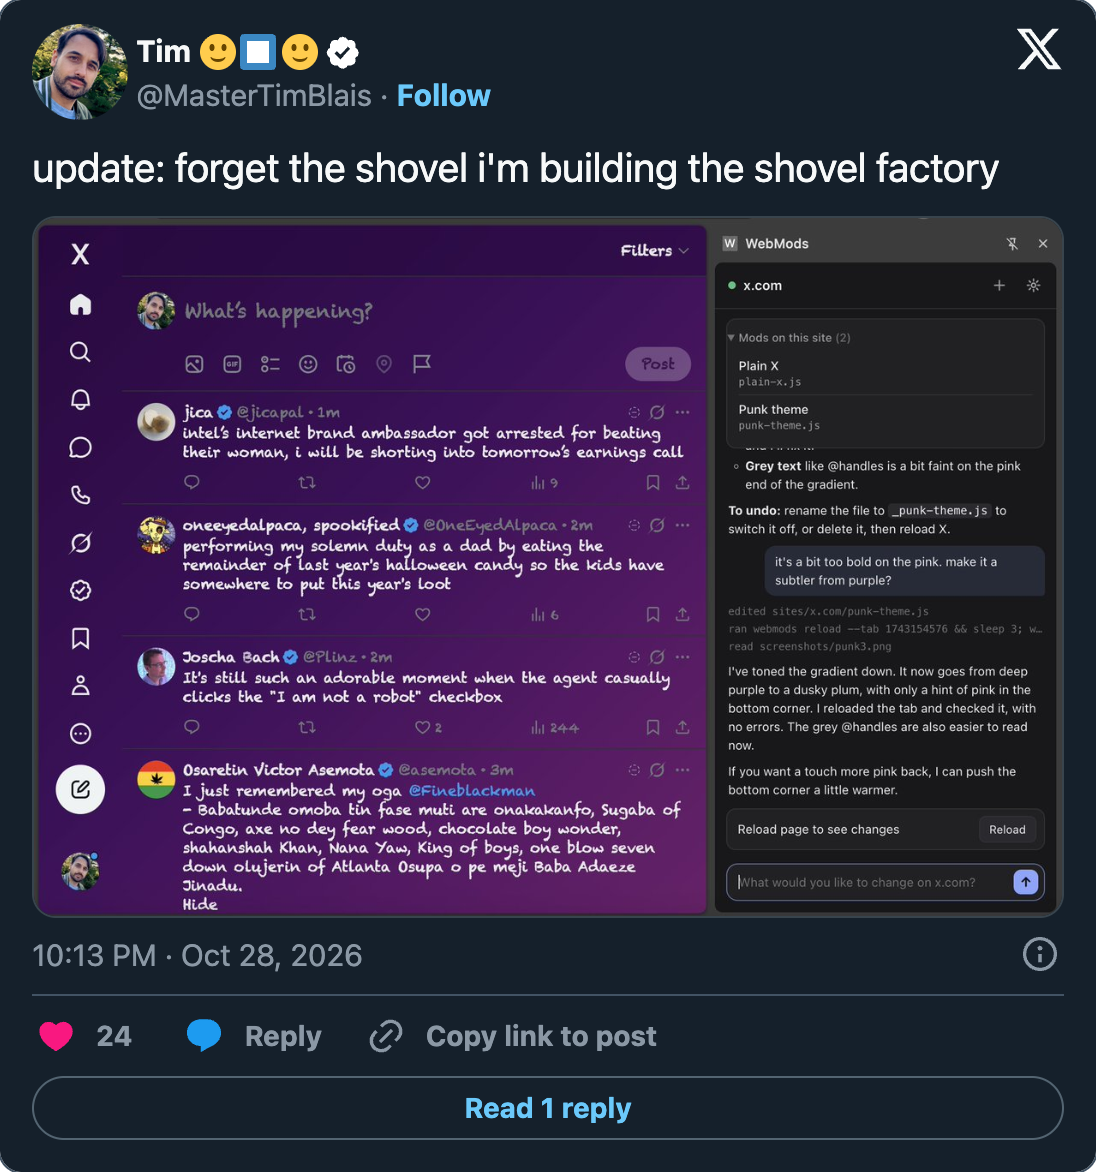
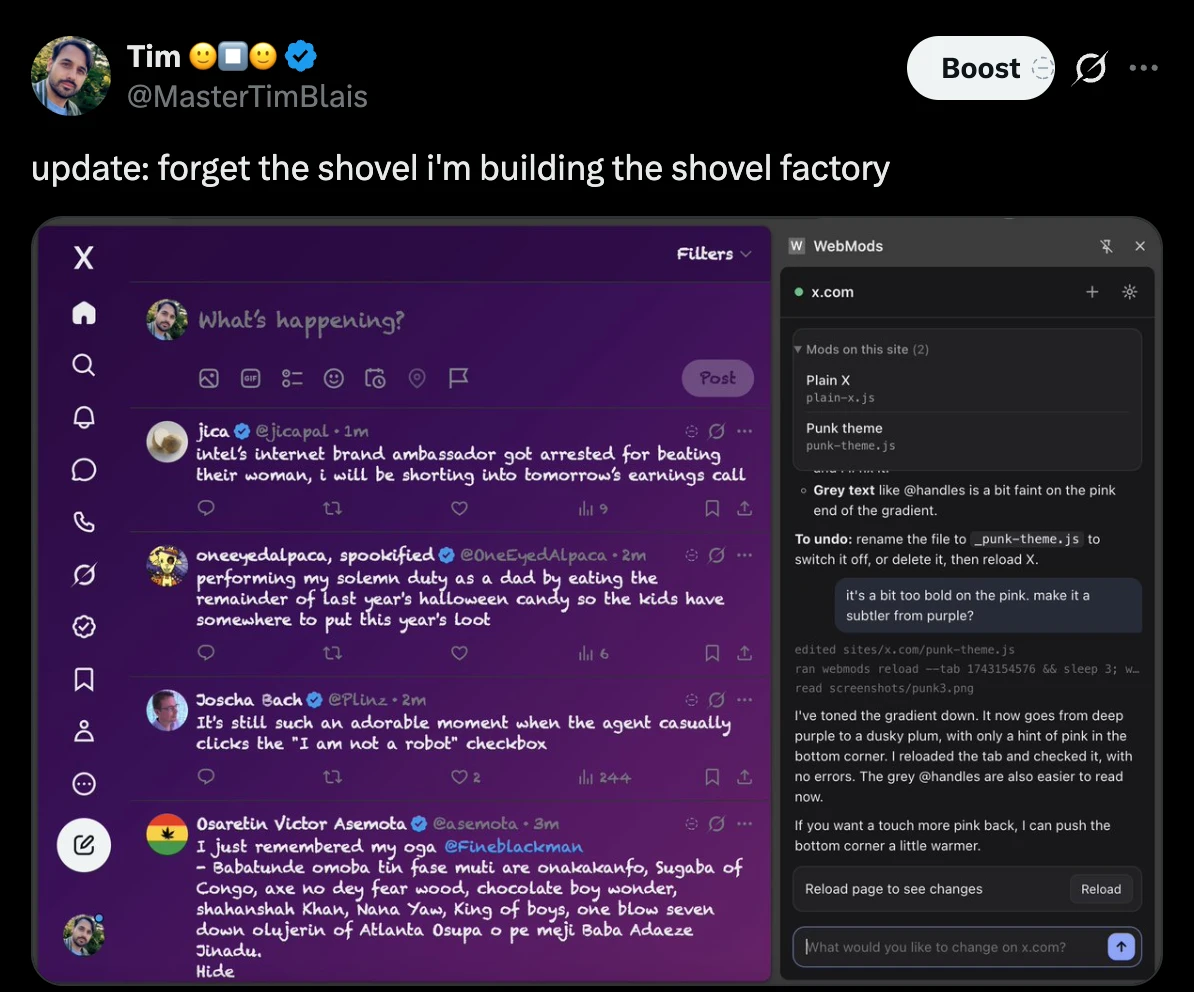
The article's posts: Tim's own screenshots (note.json posts.<id>.own: shoot-posts leaves them); media asked for by version (?v=), so a changed picture shows at once

diff --git a/site/src/notes-data.js b/site/src/notes-data.js
@@ -43,6 +43,38 @@ export const NOTES = {
    "video-2119968956177858560.jpg",
    "HWe1zlfWAAAKlKg.jpg"
   ],
+  "versions": {
+   "HWt_FOYXsAAN9gf.jpg": "5acf6289",
+   "HWdxpOBXYAALVF6.jpg": "aaa44fe0",
+   "HWdxzHWWMAAyfL6.jpg": "78de3be1",
+   "post-1470799330005209097.png": "2037709f",
+   "HWdyWgOW0AAAPeH.jpg": "4b77c6c5",
+   "HWd1FtvWAAAF4jd.jpg": "5997da2c",
+   "HWd1VURWoAAJ3AP.jpg": "357037ea",
+   "HWd2aaRWMAAdd-5.jpg": "534d52f7",
+   "HWeCYbDW0AAIaHB.png": "7cad8a7d",
+   "post-2115627963903254641.png": "9f7ec206",
+   "video-2118798585328254976.mp4": "624ad10e",
+   "video-2118798585328254976.jpg": "76154f2f",
+   "HWeF6GTXAAAAmMQ.png": "1ae09058",
+   "HWeHR29XoAAc7Mu.jpg": "cb86dcb8",
+   "HWeNGk2XkAAtsdv.jpg": "8bd7ad48",
+   "HWjQzs9XMAAmWNR.jpg": "e0fbc9f7",
+   "HWjK8enXwAA38Gm.jpg": "172693da",
+   "HWthv0NXoAAJfZO.jpg": "109ec256",
+   "HWuD29VW4AAueBg.jpg": "ab9890d1",
+   "video-2118833128227655680.mp4": "1eff2419",
+   "video-2118833128227655680.jpg": "cdc15106",
+   "HWeh_PjXoAE4oKj.jpg": "636629b6",
+   "HWuRg__XkAAywzU.jpg": "788f708b",
+   "HWenKyXWoAA5f0u.jpg": "3c5c6e1e",
+   "HWjD7XHXcAA1onU.jpg": "823c975a",
+   "HWjCYHXX0AAJRED.jpg": "378b2b58",
+   "HWjULPsXIAABWia.jpg": "c0ef9d40",
+   "video-2119968956177858560.mp4": "6e1b4418",
+   "video-2119968956177858560.jpg": "4823b867",
+   "HWe1zlfWAAAKlKg.jpg": "654dfa4c"
+  },
   "blocks": [
    {
     "t": "p",
@@ -100,8 +132,8 @@ export const NOTES = {
    {
     "t": "post",
     "src": "post-1470799330005209097.png",
-    "w": 548,
-    "h": 375,
+    "w": 595,
+    "h": 301,
     "href": "https://x.com/vibecamp_/status/1470799330005209097",
     "alt": "A post by vibecamp ✨ (@vibecamp_), Dec 14, 2021: we're happy to announce that @MasterTimBlais is running the Thunderdome at vibecamp 😈. quoting Tim 🙂⏹🙂 (@MasterTimBlais), Dec 14, 2021: Replying to @egocv and @Rididelduol @tpotvibecamp how much can we know about ourselves if we've never been in a fight",
     "caption": "it was a simpler time"
@@ -208,8 +240,8 @@ export const NOTES = {
    {
     "t": "post",
     "src": "post-2115627963903254641.png",
-    "w": 548,
-    "h": 586,
+    "w": 597,
+    "h": 496,
     "href": "https://x.com/MasterTimBlais/status/2115627963903254641",
     "alt": "A post by Tim 🙂⏹🙂 (@MasterTimBlais), Oct 28: update: forget the shovel i'm building the shovel factory",
     "caption": ""

diff --git a/site/build-notes.js b/site/build-notes.js
@@ -17,6 +17,7 @@
 // article.json; it only fetches what isn't there yet.
 
 import { execFileSync } from 'node:child_process';
+import { createHash } from 'node:crypto';
 import fs from 'node:fs';
 import path from 'node:path';
 import { fileURLToPath, pathToFileURL } from 'node:url';
@@ -178,7 +179,10 @@ export async function buildNote(slug, { fetchMedia = true } = {}) {
   const image = blocks.find((x) => x.t === 'img' && x.src === meta.image)
     || blocks.find((x) => x.t === 'img' && x.w >= 600 && x.w / x.h >= 1.3 && x.w / x.h <= 2.4) || blocks.find((x) => x.t === 'img');
   if (!meta.x || /PLACEHOLDER/.test(meta.x)) note('note.json has no address on X yet ("x"): the page says it\'s coming');
-  return { slug, title: article.title, description, x: meta.x && !/PLACEHOLDER/.test(meta.x) ? meta.x : '', date: meta.date || '', image: image ? { src: image.src, w: image.w, h: image.h } : null, files, blocks };
+  // (each file's version, from its content: the page asks for <file>?v=<it>, so a picture or video made again
+  // reaches readers at once instead of after their browser's cached copy runs out)
+  const versions = Object.fromEntries(files.map((f) => [f, createHash('sha1').update(fs.readFileSync(path.join(media, f))).digest('hex').slice(0, 8)]));
+  return { slug, title: article.title, description, x: meta.x && !/PLACEHOLDER/.test(meta.x) ? meta.x : '', date: meta.date || '', image: image ? { src: image.src, w: image.w, h: image.h } : null, files, versions, blocks };
 }
 
 /** An embedded post's alt text: who, when, what it says, and what it quotes (from the card's text). */

diff --git a/site/src/notes.js b/site/src/notes.js
@@ -39,8 +39,8 @@ figcaption { color: var(--muted); font-size: 15px; line-height: 1.45; margin: 10
   figure:not(.post-fig) { margin: 22px -16px 26px; } figure:not(.post-fig) :is(img, video) { border-radius: 0; } figcaption { margin: 8px 16px 0; } }
 `;
 
-function block(b, slug) {
-  const file = (f) => `/notes/${slug}/${f}`;
+function block(b, slug, versions = {}) {
+  const file = (f) => `/notes/${slug}/${f}${versions[f] ? `?v=${versions[f]}` : ''}`;
   switch (b.t) {
     case 'h2': return `<h2>${b.html}</h2>`;
     case 'quote': return `<blockquote><p>${b.html}</p></blockquote>`;
@@ -64,7 +64,7 @@ export function notePage(slug) {
       for (; i < n.blocks.length && n.blocks[i].t === 'li'; i++) items.push(`<li>${n.blocks[i].html}</li>`);
       i--;
       parts.push(`<ul>\n${items.join('\n')}\n</ul>`);
-    } else parts.push(block(n.blocks[i], slug));
+    } else parts.push(block(n.blocks[i], slug, n.versions));
   }
   const url = `${SITE}/notes/${slug}`;
   const image = n.image ? `${SITE}/notes/${slug}/${n.image.src}` : `${SITE}/og.png`;

diff --git a/site/shoot-posts.js b/site/shoot-posts.js
@@ -98,7 +98,10 @@ if (process.argv[1] === fileURLToPath(import.meta.url)) {
   fs.mkdirSync(out, { recursive: true });
   const meta = fs.existsSync(path.join(dir, 'note.json')) ? JSON.parse(fs.readFileSync(path.join(dir, 'note.json'), 'utf8')) : {};
   const noQuote = Object.entries(meta.posts || {}).filter(([, o]) => o.noQuote).map(([pid]) => pid);
-  const shots = await shootPosts(ids, { noQuote });
+  // (posts.<id>.own: Tim's own screenshot, post-<id>.png put there by hand: never shot over)
+  const own = (pid) => meta.posts?.[pid]?.own;
+  for (const pid of ids.filter(own)) console.log(`post-${pid}.png: Tim's own screenshot, left as it is`);
+  const shots = await shootPosts(ids.filter((pid) => !own(pid)), { noQuote });
   for (const [id, s] of Object.entries(shots)) {
     fs.writeFileSync(path.join(out, `post-${id}.png`), s.png);
     console.log(`post-${id}.png ${s.width}x${s.height}`);
